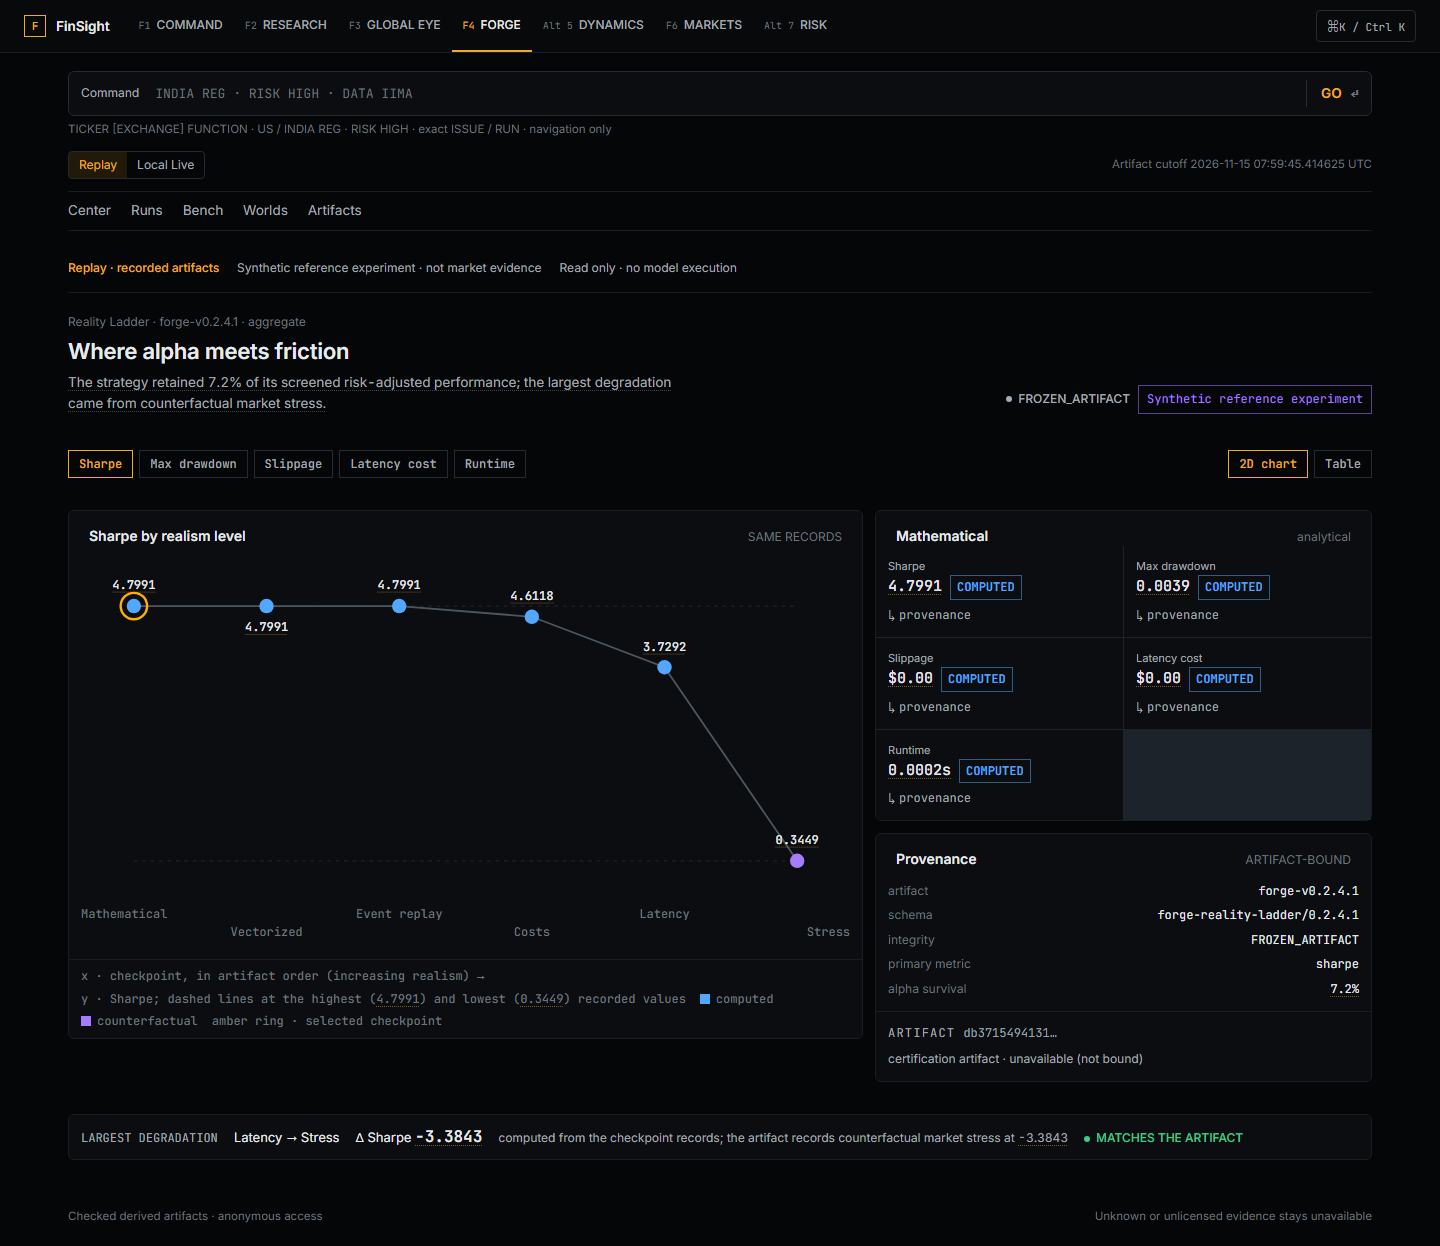
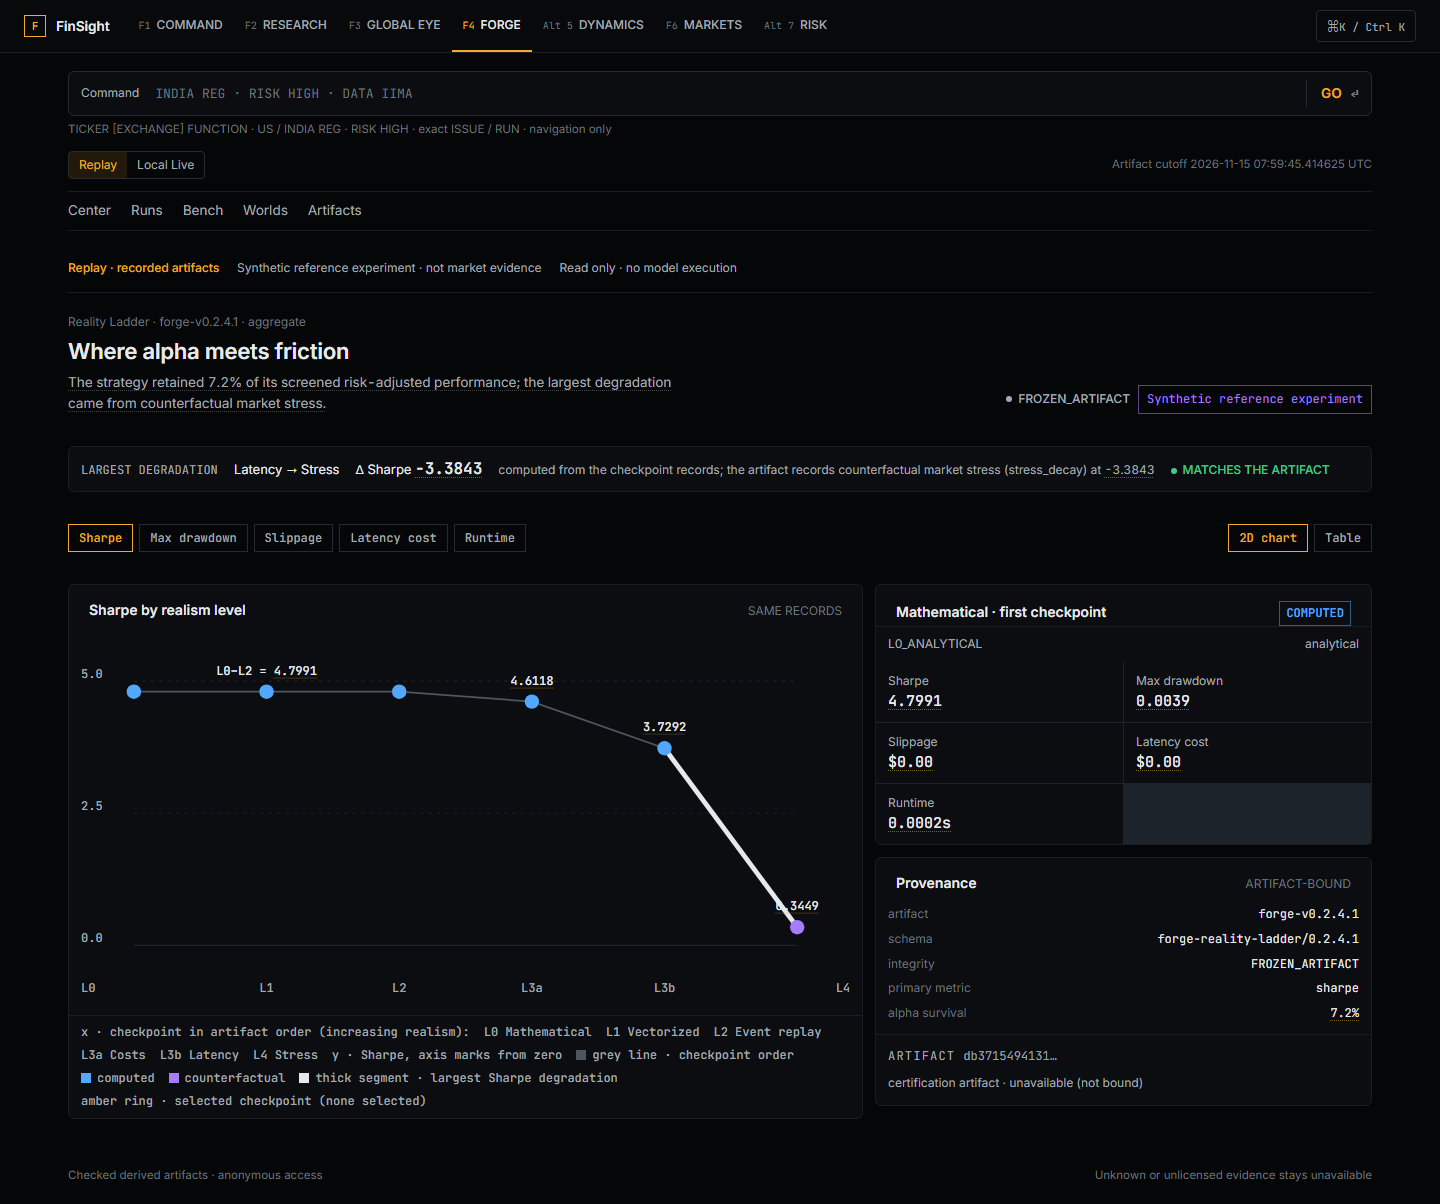
docs(u4): PR #52 review fixes; regenerated screenshots
Screenshots written by verify-forge2.mjs --screenshots on the reviewed
build at 1440 and 390.

diff --git a/docs/u4-forge-v2.md b/docs/u4-forge-v2.md
@@ -124,6 +124,28 @@ per surface, following `docs/forge-ui-v3-preimplementation.md` §4.2–§4.4.
 - The provenance panel names the artifact, schema, integrity status, primary metric and alpha
   survival; the unbound certification hash reads `unavailable`.
 
+## Review fixes (PR #52)
+
+- Debugger: below 480px the 2D graph stacks its nodes in recorded order, so no node is clipped and
+  the selected one is on screen. The graph legend is shown at every width. `validateSearch` returns
+  every key (the router keeps raw keys a validator omits, which let `?step=abc` hide `?node=`). A
+  step that is not in the run (`999`, `0`, `-1`, `abc`) shows "Step N is not in this run; showing
+  step 01". The list has a one-line selected-step summary and a one-line motion note. Focus stays on
+  the selected step when Prev/Next disable at an end, and reduced motion stops playback.
+- Ladder: "matches the artifact" now also requires the recorded `component` to name the computed
+  checkpoint pair. The pair each component measures (`COMPONENT_STEPS`) is checked against the
+  artifact's `decomposition` values. When no step lowers Sharpe, the recorded degradation is still
+  shown, as a mismatch. An unknown `?checkpoint=` is announced, and no ring is drawn unless a
+  checkpoint is chosen. The chart labels a run of equal values once (`L0–L2 = 4.7991`), uses one
+  row of short x codes keyed in the legend, draws zero-based y ticks, marks the largest Sharpe step
+  with a thick segment (keyed), keys the grey line, and is about 220px tall at 390. The degradation
+  banner sits directly under the title.
+- Bench: the relation box comes before the table on narrow screens. The Model column is pinned,
+  with a scroll cue and hint. Ties and order are judged at the displayed precision (the verifier
+  does the same). Releases without an artifact are one line each.
+- Values: `MetricCell` drops the per-value class chip and "provenance" row (the value opens its
+  origin); each card names its epistemic classes once (`ClassChips`).
+
 ## Verifiers
 
 - `scripts/verify-forge2.mjs` (CI shard `browser-agents-shell-plugins-data-research`) reads the
@@ -132,10 +154,14 @@ per surface, following `docs/forge-ui-v3-preimplementation.md` §4.2–§4.4.
   page. It checks keyboard stepping (↓, j, k, ↑, End, Home), focus, the `?step` deep link across a
   reload, disabled playback under reduced motion, playback visiting exactly the recorded order and
   stopping at the end, UNAVAILABLE releases, that chart and table show the same records, no
-  horizontal scroll and no text under 11px at 1440 and 390. Sabotage, one per surface: a tampered
-  run turn's tokens, a tampered model summary, and a tampered checkpoint Sharpe (each re-hashed in
-  the manifest so it loads) must each be detected; the ladder page must also say it no longer
-  matches the artifact.
+  horizontal scroll and no text under 11px at 1440 and 390. Since the review it also checks that
+  the selected graph node, the graph legend and the step summary are on screen at 390,
+  `?step=abc&node=N`, the out-of-range notices (`?step=999/0/-1/abc`, `?checkpoint=BOGUS`),
+  focus after Next disables, no default ring, the equal-run chart labels, the banner above the
+  fold, the pinned Model column, and the page's match verdict against its own component mapping.
+  Sabotage: a tampered run turn's tokens, a tampered model summary, a tampered checkpoint Sharpe and
+  a tampered degradation component (each re-hashed in the manifest so it loads) must each be
+  detected; on the ladder the page must also say it no longer matches the artifact.
 - `verify-num.mjs`: `/reality/$artifactId` is now visited as ten views (chart and table, each
   metric), enforced at zero raw numbers, and `/reality` is pointer-checked.
 - `verify-agents.mjs`: the run-route URL assertions use `step=`.
